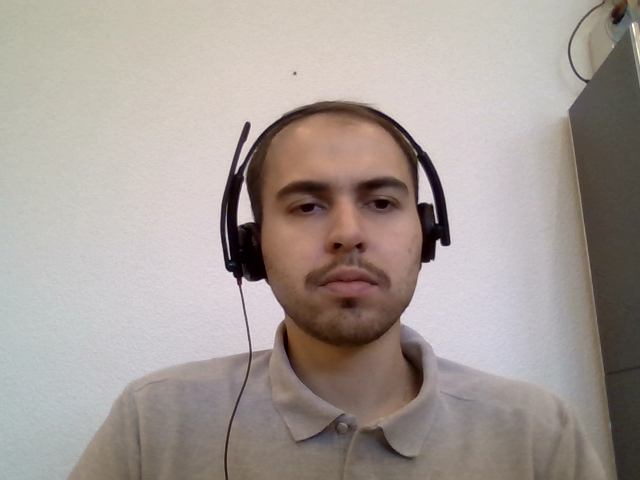
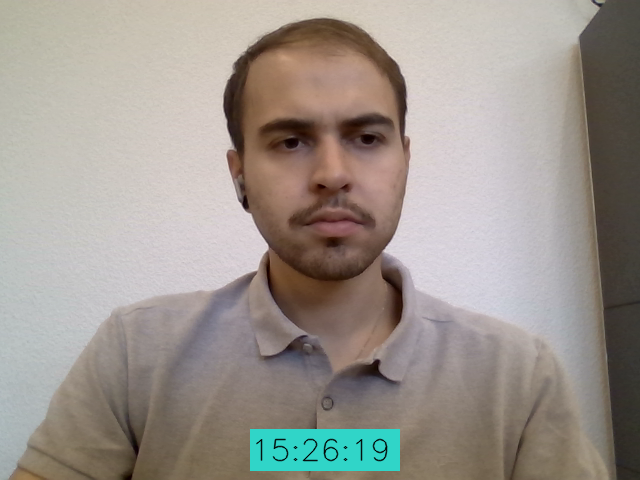
Add turquese text box with time when image was captured

diff --git a/scratch.py b/scratch.py
@@ -1,4 +1,25 @@
 from cv2 import *
+from datetime import datetime
+
+
+def draw_label(img,text,pos,align, bg_color):
+	font_face = cv2.FONT_HERSHEY_SIMPLEX
+	scale = 1
+	color = (0, 0, 0)
+	thickness = cv2.FILLED
+	margin = 10
+	txt_size = cv2.getTextSize(text, font_face, scale, thickness)
+	
+	pos_x = pos[0]
+
+	if align == 'c':
+		pos_x = pos[0] - round(txt_size[0][0]/2)
+	
+	end_x = pos_x  + txt_size[0][0] + margin
+	end_y = pos[1] - txt_size[0][1] - margin
+	
+	cv2.rectangle(img, (pos_x, pos[1] + margin), (end_x, end_y), bg_color, thickness)
+	cv2.putText(img, text, (pos_x, pos[1]), font_face, scale, color, 1, cv2.LINE_AA)
 
 cam_port = 0
 cam = VideoCapture(cam_port)
@@ -6,7 +27,19 @@ cam = VideoCapture(cam_port)
 result, image = cam.read()
 
 if result:
+	datetime_now = datetime.now()
+	time_now = str (datetime_now.time())
+	#print(time_now[0:8])
+	#test = "hello"
+	
+	height, width, channels = image.shape
+	w = round(width/2)
+	h = height-20
+	#print(w,h)
+
+	draw_label(image,time_now[0:8], (w,h),'c', (200,213,48))
 	imshow("View",image)
+
 	imwrite("View.png",image)
 
 	waitKey(0)
